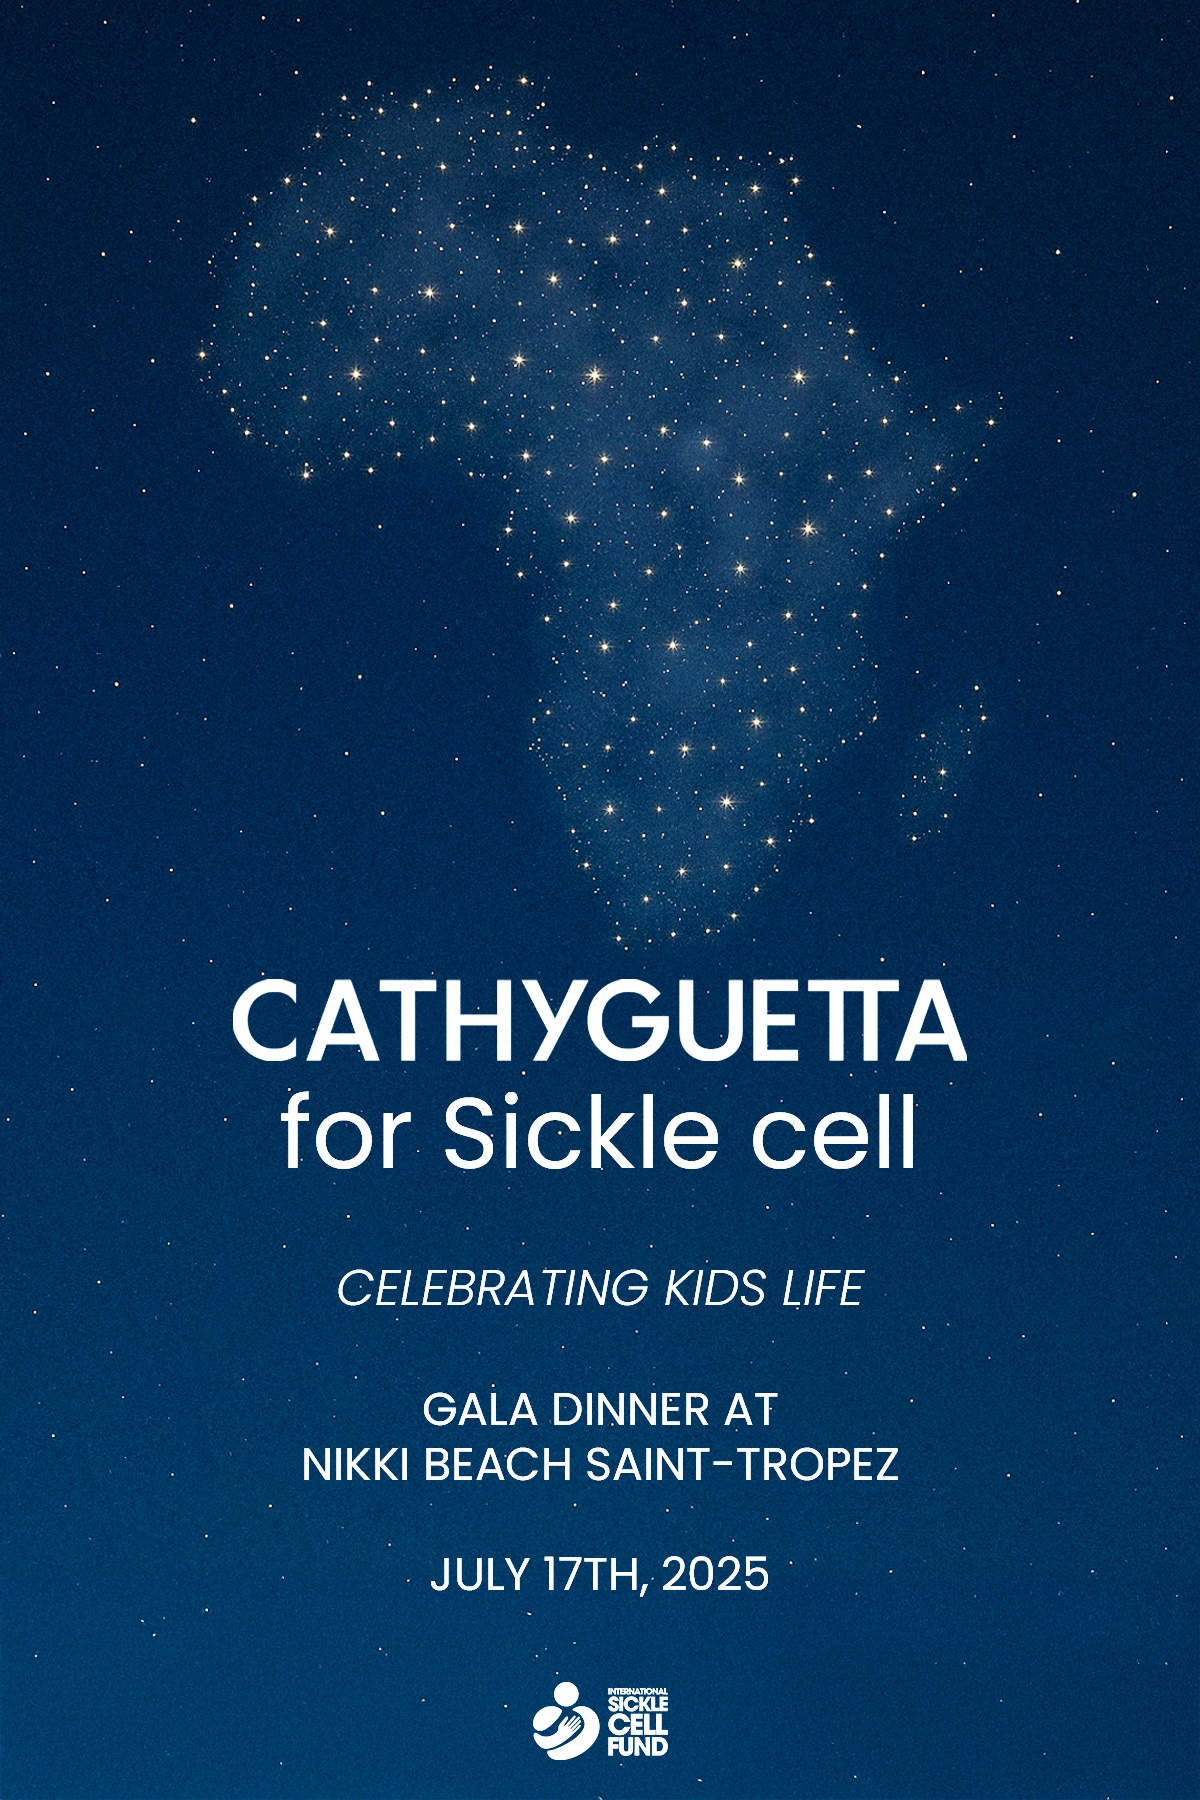
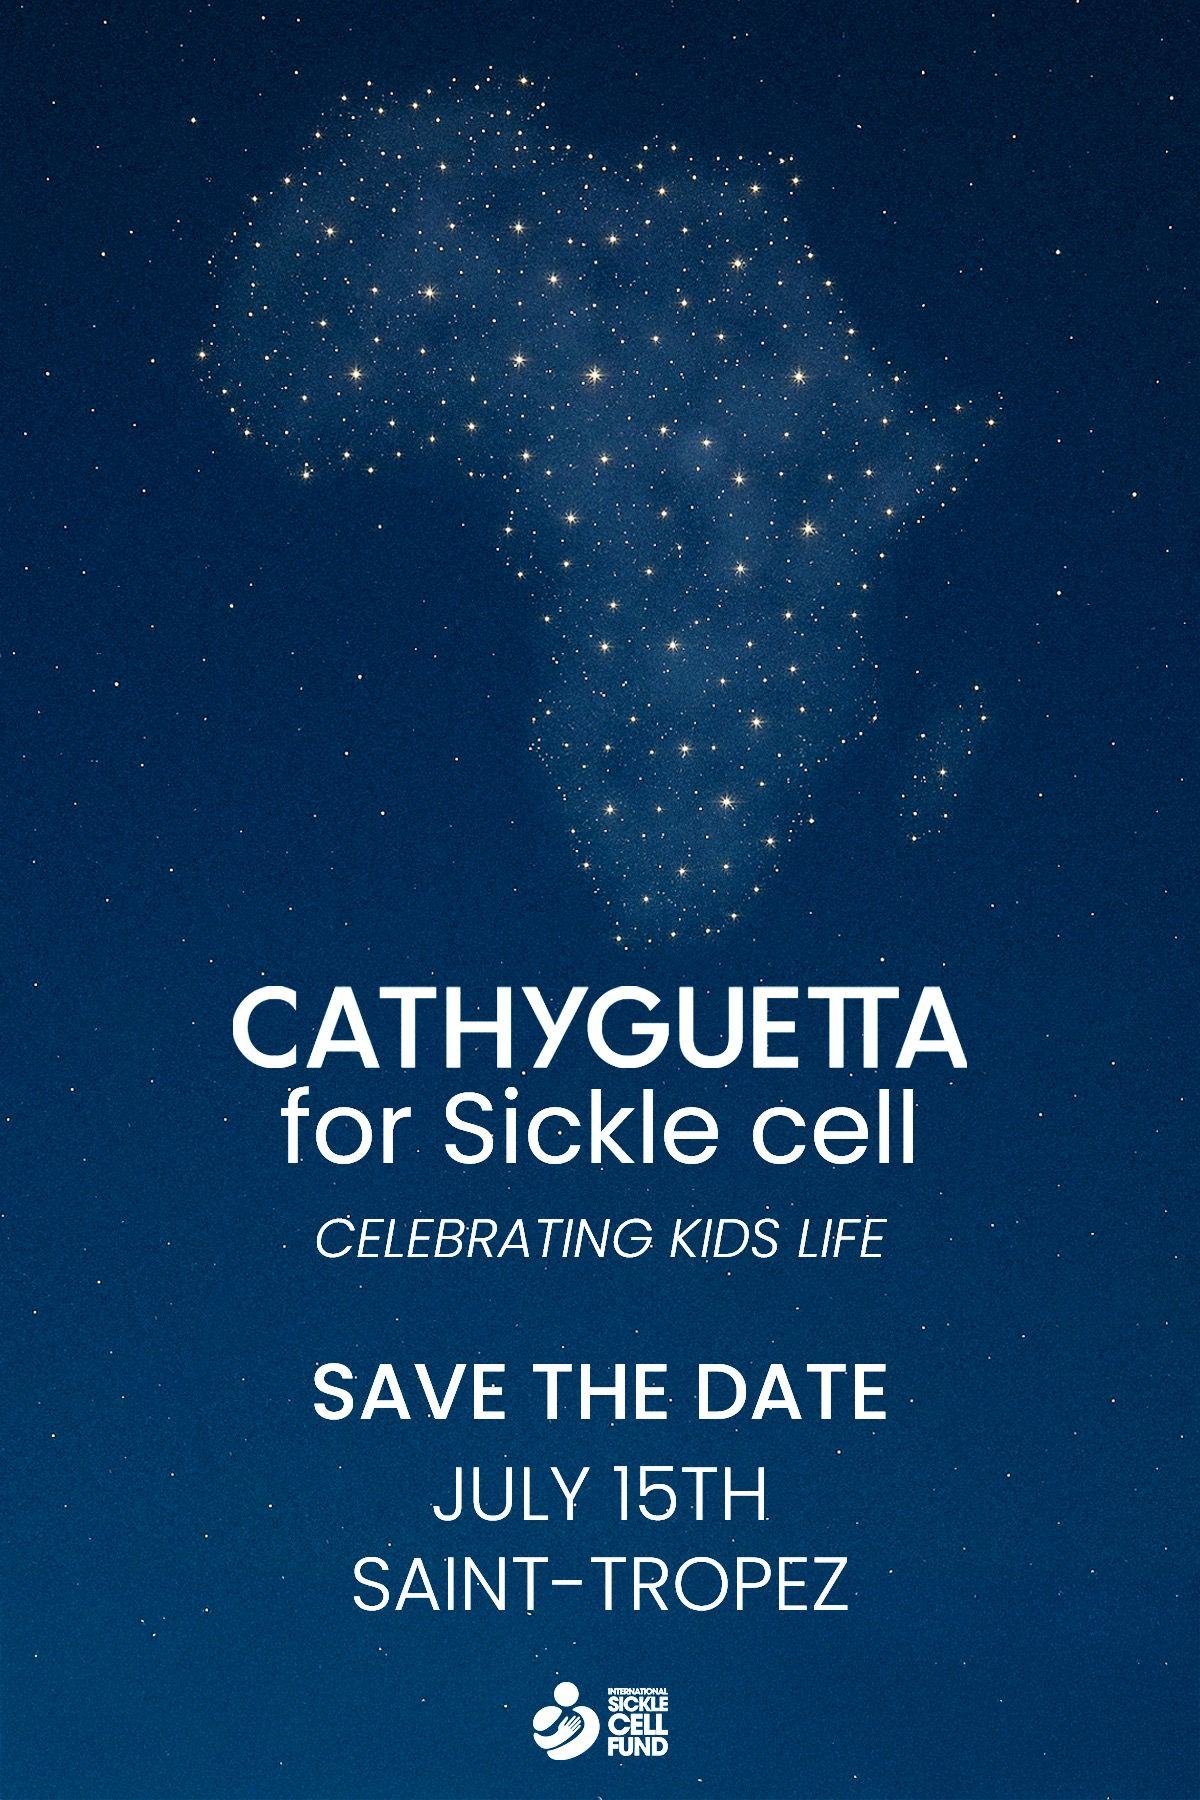
feat: Change event date

Changed region(s): [[0.185, 0.5289, 0.8017, 0.9022]]

diff --git a/src/app/components/HeroSection.tsx b/src/app/components/HeroSection.tsx
@@ -10,7 +10,7 @@ const EventBanner = ({ mobile = false }: { mobile?: boolean }) => {
         <div className="mb-1 mr-2 inline-flex items-center gap-2">
           <div className="rounded-full font-bold uppercase">Next event</div>
           <span>•</span>
-          <span className="font-medium">July 17th, 2025</span>
+          <span className="font-medium">July 15th, 2025</span>
         </div>
         <div className="mx-auto inline-flex flex-wrap items-center gap-x-2">
           <span className="text-lg font-medium text-white">
@@ -34,7 +34,7 @@ const EventBanner = ({ mobile = false }: { mobile?: boolean }) => {
         Next event
       </div>
       <div className="mx-auto mr-2 inline-flex flex-wrap items-center gap-x-1 font-medium">
-        <span className="text-sm text-white">July 17th, 2025</span>
+        <span className="text-sm text-white">July 15th, 2025</span>
         <span className="hidden text-sm text-white md:block">·</span>
         <span className="text-sm text-white">Cathy Guetta for Sickle Cell Disease</span>
       </div>

diff --git a/src/app/components/AuctionCatalogSection.tsx b/src/app/components/AuctionCatalogSection.tsx
@@ -95,7 +95,7 @@ export default function AuctionCatalogSection() {
             alt="Cathy Guetta"
           />
         </div>
-        <div>
+        <div className="flex flex-col items-center justify-center space-y-4">
           <h2 className="text-left">
             Cathy Guetta Named Ambassador for Sickle Cell Disease <br /> A New Light in the Fight
             for Life!
